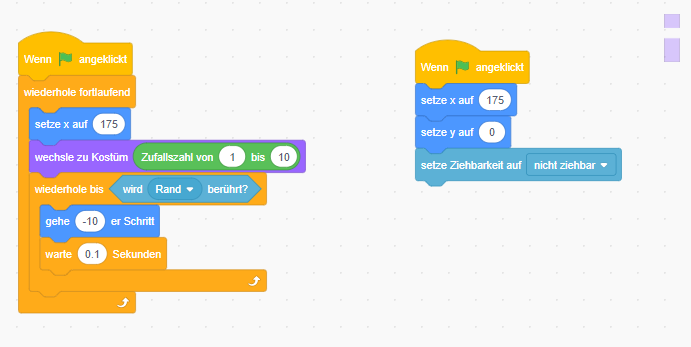
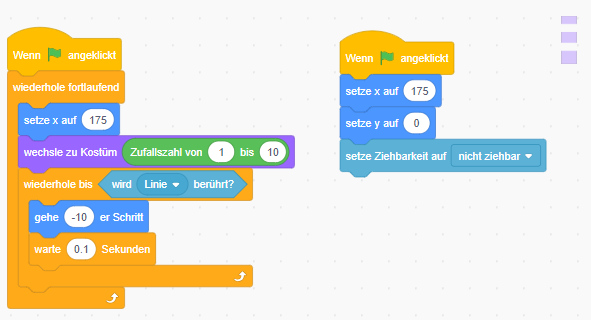
now with border, so too big obstacles won't break the game

Changed region(s): [[0.0, 0.0625, 0.5178, 0.9688], [0.5482, 0.0938, 0.9442, 0.5625], [0.9442, 0.0312, 1.0, 0.2188]]

diff --git a/scratch/Fledermaus/V3.x/Readme.md b/scratch/Fledermaus/V3.x/Readme.md
@@ -42,6 +42,8 @@ Du kannst noch ein paar Hindernisse einfügen in dem du mit der rechten Maustast
 Platziere das Hindernis nun in die allgemeine Arbeitsfläche rechts neben der
 Fledermaus.
 
+Nun müssen wir noch eine weitere neue Figur zeichenen, eine Linie, welche wir ganz am linken Rand des Bildschirms zeichnen. Benenne diese Figur auch gleich um in Linie.
+![Linie](images/linie.jpg)
 
 
 Schritt 2 – Erstelle das Skript
